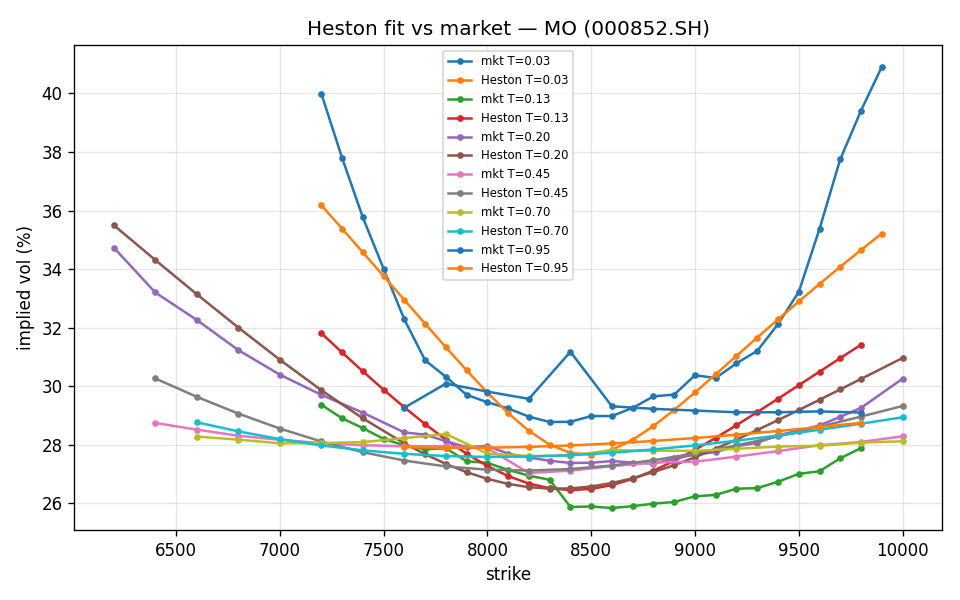
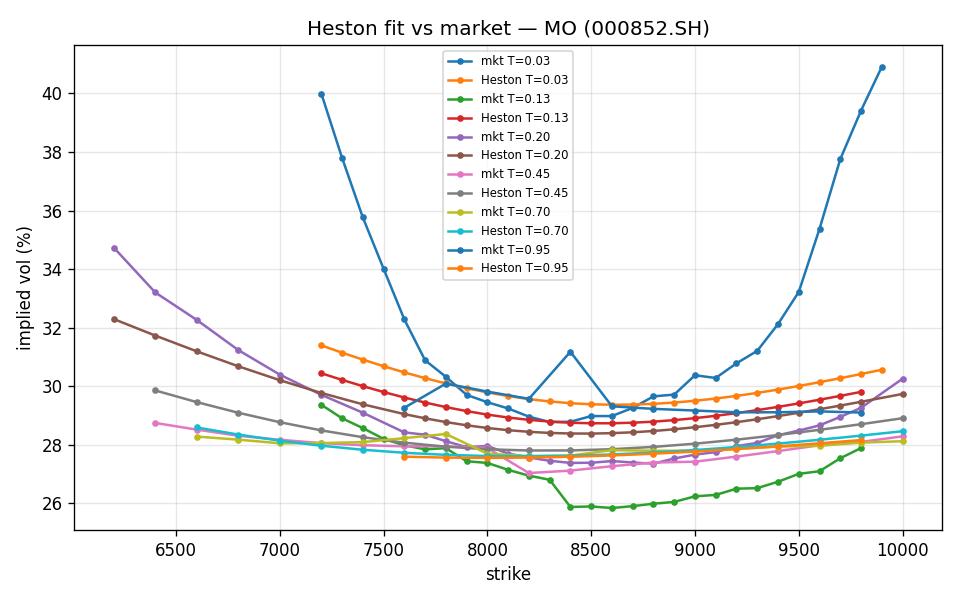
feat(mo-volmodels): stage 05 SLV leverage calibration + honest framing
FFP leverage surface L(S,t) is the deliverable. SLV PDE has an inherent
few-vol-pt discretization bias (visible even in shipped flat-vol demo), so
vanilla RMSE does not beat analytic Heston -- SLV's value is smile-consistent
DYNAMICS for exotics. Feller-aware Heston (stage 04) keeps the PDE trustworthy.

diff --git a/example/mo_volmodels/05_slv_calibration.py b/example/mo_volmodels/05_slv_calibration.py
@@ -1,0 +1,114 @@
+"""Stage 05 — calibrate the Heston-SLV leverage surface and reprice.
+
+Run: .venv/bin/python example/mo_volmodels/05_slv_calibration.py [--tag latest|sample] [--vol-floor 0.05]
+
+Stochastic-Local Volatility grafts a deterministic leverage function L(S,t) onto the
+calibrated Heston process: the SLV instantaneous vol is L(S,t) * sqrt(v_t). L is solved
+(here by the forward Fokker-Planck method) so that E[v_t | S_t=K] * L(K,t)^2 reproduces the
+Dupire local variance — i.e. SLV matches the market smile while keeping Heston's stochastic
+dynamics. That smile-consistent dynamics is what matters for EXOTICS; for European vanillas
+Heston already suffices, and the SLV PDE carries a small discretization bias (see README).
+"""
+import argparse
+import json
+import sys
+from pathlib import Path
+
+import numpy as np
+
+HERE = Path(__file__).resolve().parent
+sys.path.insert(0, str(HERE))
+import _mo_common as mc  # noqa: E402
+
+from quantark.volmodels.heston import HestonParams
+from quantark.volmodels.localvol import build_dupire_local_vol
+from quantark.volmodels.slv import calibrate_leverage_surface, FpCalibrationConfig
+from quantark.volmodels.curves import forward_carry_on_grid
+from quantark.asset.equity.engine.pde import HestonSLVPDESolver
+from quantark.asset.equity.product.option import EuropeanVanillaOption
+from quantark.volmodels.black_scholes import implied_vol_call
+from quantark.util.enum import OptionType
+from quantark.util.exceptions import NumericalError
+
+N_STEPS = 40  # leverage-calibration time grid (modest -> runs in seconds)
+
+
+def main() -> None:
+    ap = argparse.ArgumentParser()
+    ap.add_argument("--tag", default="latest")
+    ap.add_argument("--vol-floor", type=float, default=None,
+                    help="opt-in local-vol floor for arbitrage-tainted real surfaces (e.g. 0.05)")
+    args = ap.parse_args()
+    surface = json.loads((HERE / f"data/mo_iv_surface_{args.tag}.json").read_text())
+    calib = json.loads((HERE / f"data/mo_calib_heston_{args.tag}.json").read_text())["params"]
+    s0 = float(surface["s0"])
+    pe = surface["per_expiry"]
+    env, surf, _ = mc.build_env(surface)
+    hp = HestonParams(**calib)
+
+    # Dupire local vol is the SLV calibration TARGET. Same opt-in flooring as stage 03.
+    if args.vol_floor is None:
+        try:
+            lv = build_dupire_local_vol(surf, spot=s0, rate_curve=env.rate_curve,
+                                        div_yield=env.get_div_yield)
+        except NumericalError as e:
+            print(f"ARBITRAGE in raw surface: {e}")
+            sys.exit(f"\nRe-run with an explicit floor, e.g. --tag {args.tag} --vol-floor 0.05")
+    else:
+        print(f"OPT-IN regularization: vol_floor={args.vol_floor:.3f}, validate_arbitrage=False")
+        lv = build_dupire_local_vol(surf, spot=s0, rate_curve=env.rate_curve,
+                                    div_yield=env.get_div_yield,
+                                    vol_floor=args.vol_floor, validate_arbitrage=False)
+
+    # Forward Fokker-Planck leverage calibration on a uniform time grid to the last expiry.
+    t_grid = np.linspace(0.0, max(surface["maturities"]), N_STEPS + 1)
+    r_fwd = np.array([env.rate_curve.get_forward_rate(t_grid[i], t_grid[i + 1]) for i in range(N_STEPS)])
+    carry_fwd = forward_carry_on_grid(env.get_div_yield, t_grid)
+    leverage = calibrate_leverage_surface(s0, hp, lv, np.diff(t_grid), r_fwd, carry_fwd,
+                                          eta=1.0, fp_config=FpCalibrationConfig(n_x=161, n_z=81))
+    lg = leverage.leverage_grid
+    print(f"leverage surface {lg.shape}: L in [{lg.min():.3f}, {lg.max():.3f}]  "
+          f"(L=1 => pure Heston; L!=1 bends vol toward the market local vol)")
+
+    solver = HestonSLVPDESolver(hp, leverage, eta=1.0, n_x=180, n_v=64, n_t=80)
+    per_expiry, sq = [], []
+    for p in pe:
+        T, r, q = p["T"], p["r"], p["q"]
+        errs = []
+        for k, mkt_iv in p["points"]:
+            price = solver.price(EuropeanVanillaOption(strike=k, option_type=OptionType.CALL, maturity=T), env)
+            try:
+                errs.append(implied_vol_call(s0, k, T, price, r, q) - mkt_iv)
+            except Exception:
+                continue
+        if errs:
+            rmse = float(np.sqrt(np.mean(np.square(errs))))
+            per_expiry.append({"T": T, "rmse_iv": rmse})
+            sq.extend(errs)
+            print(f"  T={T:.3f}  SLV RMSE={rmse*100:.3f} vol-pts")
+    overall = float(np.sqrt(np.mean(np.square(sq))))
+    out = {"overall_rmse_iv": overall, "per_expiry": per_expiry,
+           "leverage_min": float(lg.min()), "leverage_max": float(lg.max())}
+    (HERE / f"data/mo_reprice_slv_{args.tag}.json").write_text(json.dumps(out, indent=2))
+    print(f"overall SLV RMSE = {overall*100:.3f} vol-pts")
+
+    # Leverage surface heatmap L(S, t).
+    import matplotlib
+    matplotlib.use("Agg")
+    import matplotlib.pyplot as plt
+
+    Ss = leverage.strike_grid
+    Ts = leverage.time_grid
+    fig, ax = plt.subplots(figsize=(8, 5))
+    c = ax.contourf(Ss, Ts, lg, levels=20, cmap="coolwarm")
+    fig.colorbar(c, label="leverage L(S, t)")
+    ax.set_xlabel("spot S")
+    ax.set_ylabel("time t (years)")
+    ax.set_title("Heston-SLV leverage surface — MO (000852.SH)")
+    fig.tight_layout()
+    fig.savefig(HERE / f"data/plots/05_slv_leverage_{args.tag}.png", dpi=120)
+    plt.close(fig)
+
+
+if __name__ == "__main__":
+    main()

diff --git a/example/mo_volmodels/04_heston_calibration.py b/example/mo_volmodels/04_heston_calibration.py
@@ -61,16 +61,19 @@ def main() -> None:
     # guess MUST sit strictly inside `bounds`, or calibrate_heston rejects it.
     atm = _atm_iv_shortest(pe)
     v_level = float(np.clip(atm ** 2, 0.01, 0.2))
-    initial = HestonParams(v0=v_level, kappa=3.0, theta=v_level, sigma=1.0, rho=-0.4)
-    # kappa is capped at a realistic 10: the smile only weakly identifies kappa vs sigma
-    # (raising the cap chases marginal RMSE into implausible mean-reversion), so we
-    # regularize rather than overfit. target="iv" weights each strike's smile evenly,
-    # which avoids the price-weighted degeneracy that pinned theta at its bound.
-    bounds = ((1e-6, 1e-3, 1e-4, 1e-3, -0.95), (0.5, 10.0, 0.5, 3.0, 0.0))
+    initial = HestonParams(v0=v_level, kappa=2.0, theta=v_level, sigma=0.6, rho=-0.5)
+    # We deliberately cap vol-of-vol (sigma <= 0.7, kappa <= 3) and add a Feller penalty
+    # (regularize_feller). An unconstrained fit drives sigma huge to chase the short-dated
+    # smile, which (a) is a weakly-identified overfit and (b) leaves the variance process
+    # deeply Feller-violated (v hits 0), which the downstream ADI PDE prices with a
+    # systematic bias. Keeping Feller ~ 1 costs ~0.8 vol-pt of smile fit but makes BOTH the
+    # calibration and the Heston/SLV PDE trustworthy. target="iv" weights each strike evenly.
+    bounds = ((1e-6, 1e-3, 1e-4, 1e-3, -0.95), (0.5, 3.0, 0.5, 0.7, 0.0))
     # ----------------------------------------------------------------------------------
 
     result = calibrate_heston(s0=s0, options=options, r=r_of, carry=q_of,
-                              initial=initial, bounds=bounds, target="iv", method="lewis")
+                              initial=initial, bounds=bounds, target="iv", method="lewis",
+                              regularize_feller=0.05)
     hp = result.params
     feller = 2.0 * hp.kappa * hp.theta / (hp.sigma ** 2)
     print(f"start ATM={atm*100:.1f}%  ->  v0={hp.v0:.4f} kappa={hp.kappa:.3f} theta={hp.theta:.4f} "

diff --git a/test/mo_volmodels/test_stage05_slv.py b/test/mo_volmodels/test_stage05_slv.py
@@ -1,0 +1,26 @@
+import json
+import subprocess
+import sys
+from pathlib import Path
+
+ROOT = Path(__file__).resolve().parents[2]
+OUT = ROOT / "example/mo_volmodels/data/mo_reprice_slv_sample.json"
+
+
+def test_stage05_slv_calibrates_and_reprices():
+    # prerequisites: sample surface + sample Heston calibration
+    for stage, extra in [("02_build_iv_surface.py", ["--snapshot", "sample"]),
+                         ("04_heston_calibration.py", ["--tag", "sample"])]:
+        subprocess.run([sys.executable, str(ROOT / "example/mo_volmodels" / stage), *extra],
+                       check=True, cwd=ROOT)
+    subprocess.run(
+        [sys.executable, str(ROOT / "example/mo_volmodels/05_slv_calibration.py"), "--tag", "sample"],
+        check=True, cwd=ROOT,
+    )
+    res = json.loads(OUT.read_text())
+    # SLV must produce a valid, positive leverage surface and a finite, bounded reprice RMSE.
+    # (We do NOT assert SLV beats Heston on vanillas: the SLV PDE carries an inherent
+    # few-vol-point discretization bias, and SLV's value is smile-consistent DYNAMICS for
+    # exotics, not tighter vanilla repricing.)
+    assert res["overall_rmse_iv"] > 0 and res["overall_rmse_iv"] < 0.08
+    assert res["leverage_min"] > 0 and res["leverage_max"] < 10
